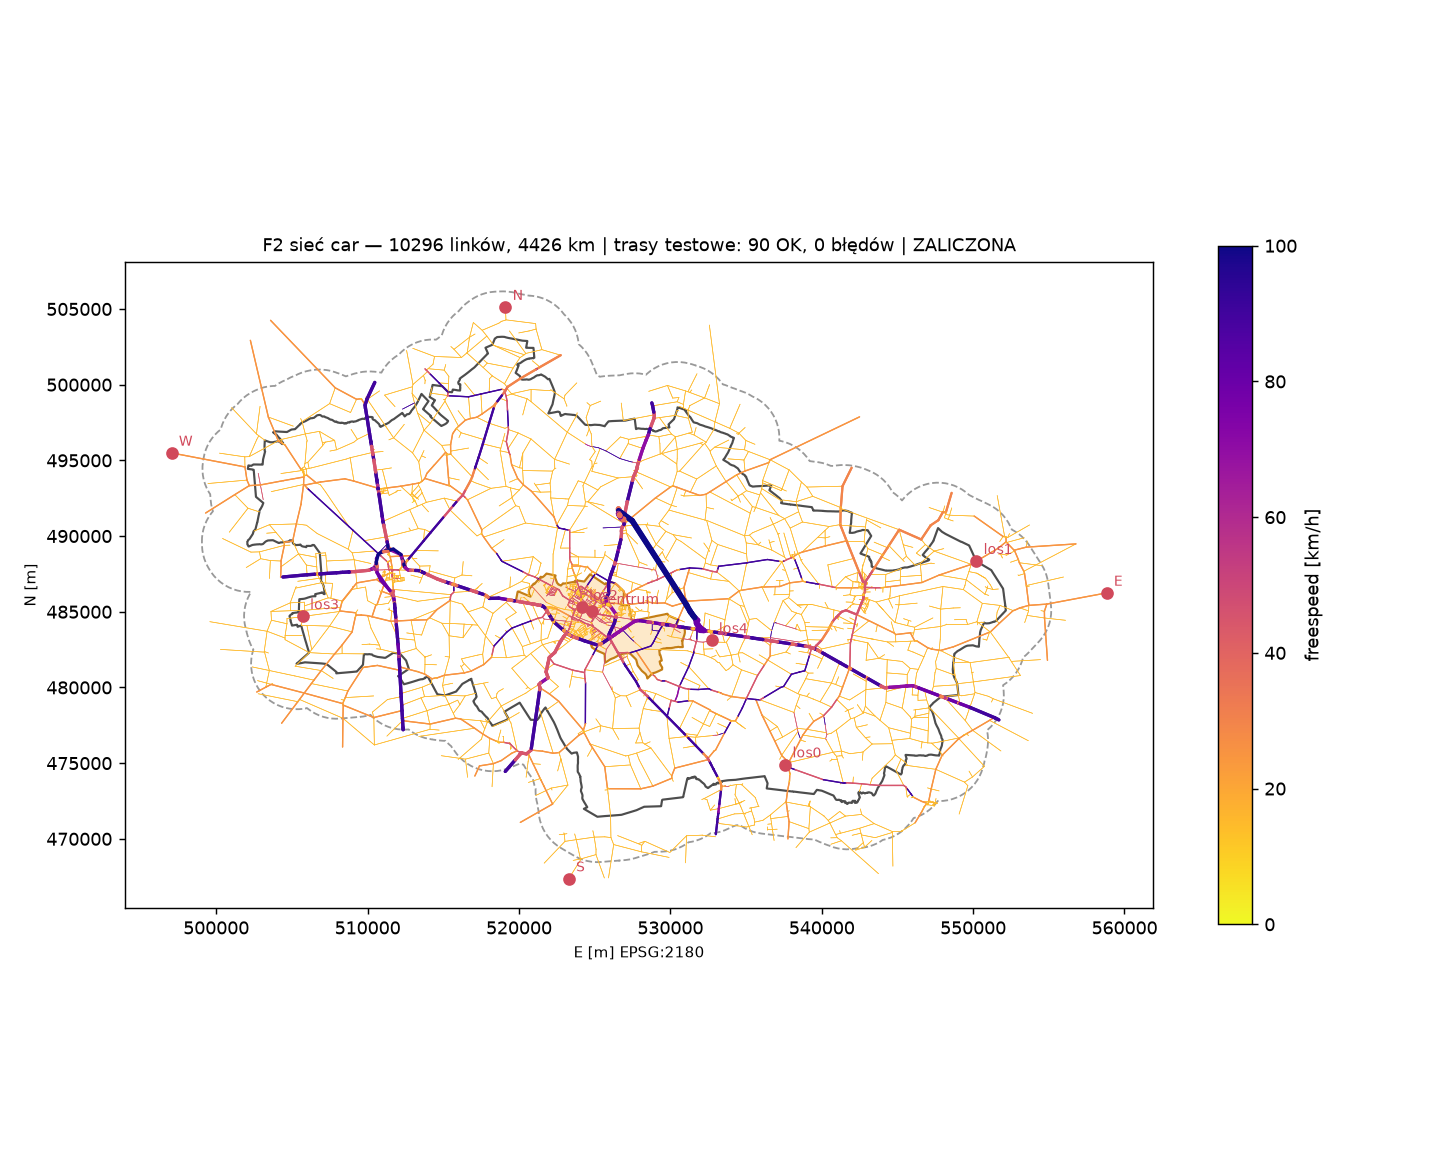
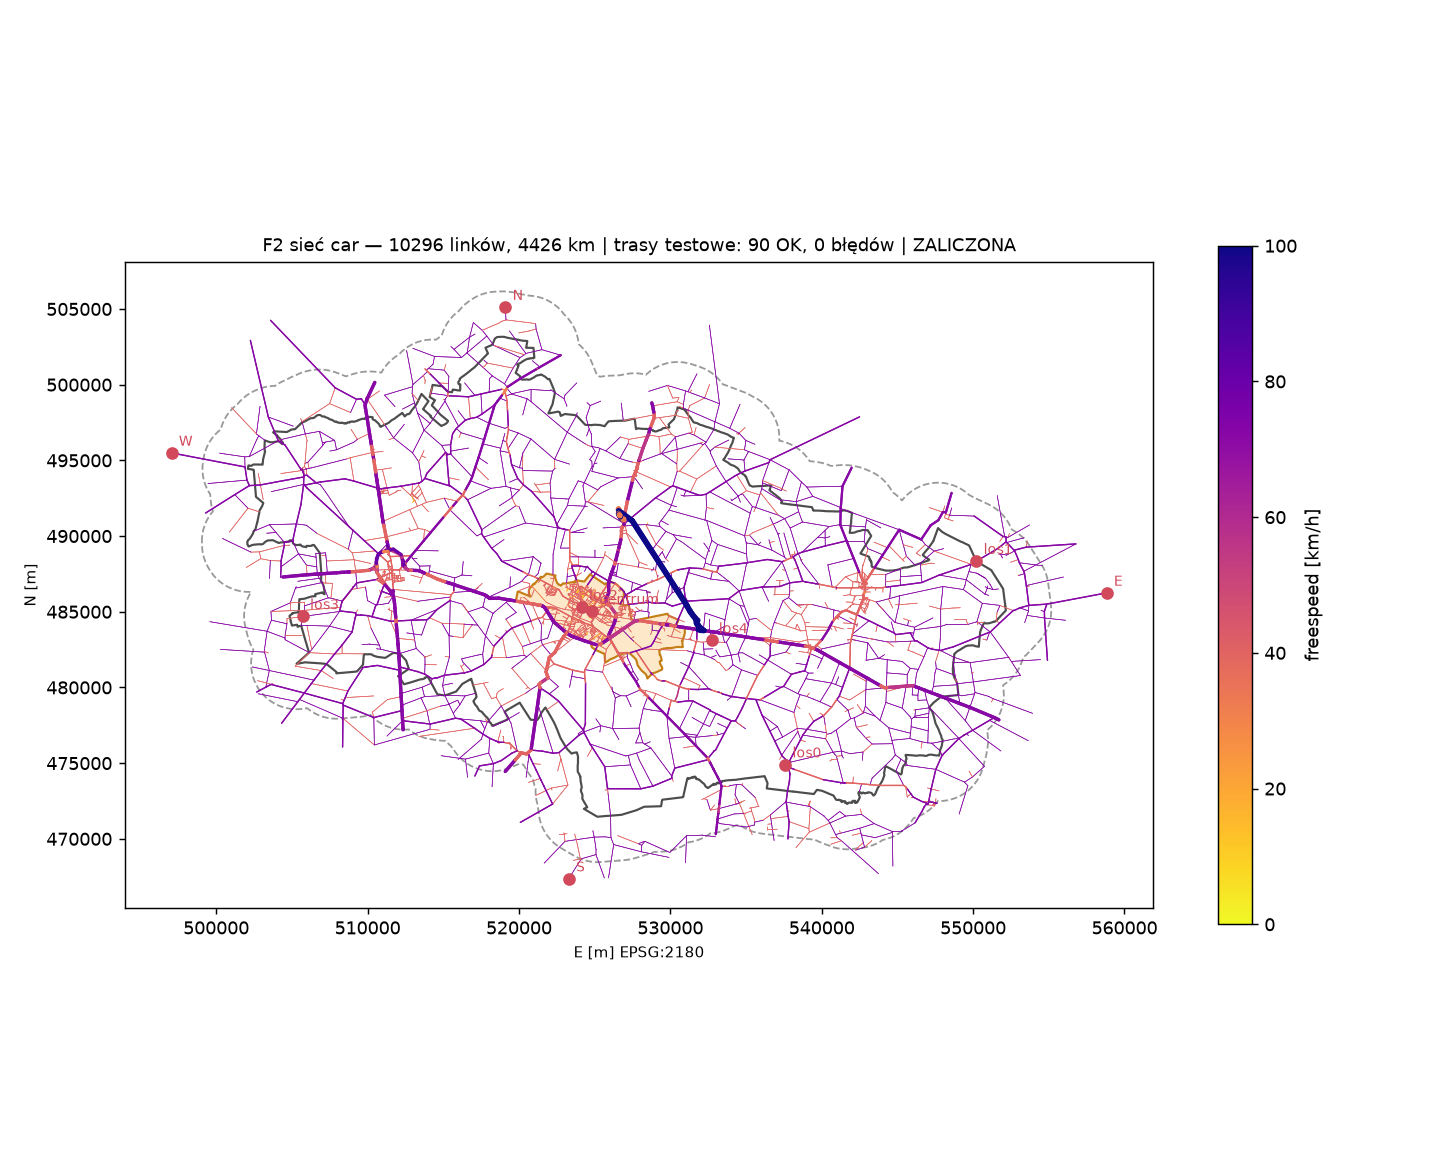
faza2: prędkości wg limitów ustawowych x0,8 (D13), sieć zaliczona

Changed region(s): [[0.1538, 0.2769, 0.7385, 0.7077], [0.5846, 0.7077, 0.6154, 0.7385], [0.4, 0.7077, 0.4308, 0.7385]]

diff --git a/matsim/src/main/java/org/matsim/kutno/CreateKutnoNetwork.java b/matsim/src/main/java/org/matsim/kutno/CreateKutnoNetwork.java
@@ -5,32 +5,48 @@ import org.locationtech.jts.geom.GeometryFactory;
 import org.locationtech.jts.geom.prep.PreparedGeometry;
 import org.locationtech.jts.geom.prep.PreparedGeometryFactory;
 import org.locationtech.jts.io.WKTReader;
+import org.matsim.api.core.v01.Coord;
 import org.matsim.api.core.v01.TransportMode;
+import org.matsim.api.core.v01.network.Link;
 import org.matsim.api.core.v01.network.Network;
 import org.matsim.contrib.osm.networkReader.SupersonicOsmNetworkReader;
 import org.matsim.core.network.NetworkUtils;
 import org.matsim.core.network.algorithms.NetworkCleaner;
 import org.matsim.core.utils.geometry.transformations.TransformationFactory;
 
+import java.io.Reader;
 import java.nio.file.Files;
 import java.nio.file.Path;
+import java.util.Map;
+import java.util.Properties;
 import java.util.Set;
 
 /**
  * F2: OSM PBF -> sieć MATSim (car) w EPSG:2180, przycięta do obszaru z make_area.py.
- * Użycie: java -cp <jar> org.matsim.kutno.CreateKutnoNetwork <osm.pbf> <area_EPSG2180.wkt> <network.xml.gz>
+ * Użycie: java -cp <jar> org.matsim.kutno.CreateKutnoNetwork <osm.pbf> <area.wkt> <towns.wkt> <speeds.properties> <network.xml.gz>
  * Transformacja WGS84 -> EPSG:2180 dzieje się tylko tutaj (parser Supersonic, przed filtrem obszaru).
+ * Prędkości (D13): tag maxspeed > limit ustawowy wg typu drogi i położenia (miasto/poza) ; freespeed = limit x factor.
  */
 public final class CreateKutnoNetwork {
 
+	private static final GeometryFactory GF = new GeometryFactory();
+
 	public static void main(String[] args) throws Exception {
-		PreparedGeometry area = PreparedGeometryFactory.prepare(new WKTReader().read(Files.readString(Path.of(args[1]))));
-		GeometryFactory gf = new GeometryFactory();
+		PreparedGeometry area = readWkt(args[1]);
+		PreparedGeometry towns = readWkt(args[2]);
+		Properties speeds = new Properties();
+		try (Reader r = Files.newBufferedReader(Path.of(args[3]))) {
+			speeds.load(r);
+		}
+		double factor = Double.parseDouble(speeds.getProperty("factor"));
 
 		Network network = new SupersonicOsmNetworkReader.Builder()
 				.setCoordinateTransformation(TransformationFactory.getCoordinateTransformation(TransformationFactory.WGS84, "EPSG:2180"))
-				.setIncludeLinkAtCoordWithHierarchy((coord, level) -> area.contains(gf.createPoint(new Coordinate(coord.getX(), coord.getY()))))
-				.setAfterLinkCreated((link, tags, direction) -> link.setAllowedModes(Set.of(TransportMode.car)))
+				.setIncludeLinkAtCoordWithHierarchy((coord, level) -> contains(area, coord))
+				.setAfterLinkCreated((link, tags, direction) -> {
+					link.setAllowedModes(Set.of(TransportMode.car));
+					setSpeed(link, tags, towns, speeds, factor);
+				})
 				.build()
 				.read(args[0]);
 
@@ -38,6 +54,50 @@ public final class CreateKutnoNetwork {
 		new NetworkCleaner().run(network);
 		System.out.printf("F2 network: before cleaner nodes=%d links=%d, after nodes=%d links=%d%n",
 				nodes, links, network.getNodes().size(), network.getLinks().size());
-		NetworkUtils.writeNetwork(network, args[2]);
+		NetworkUtils.writeNetwork(network, args[4]);
+	}
+
+	private static void setSpeed(Link link, Map<String, String> tags, PreparedGeometry towns, Properties speeds, double factor) {
+		String highway = tags.get("highway").replace("_link", "");
+		Double kmh = parseMaxspeed(tags.get("maxspeed"), speeds);
+		String source = "tag";
+		if (kmh == null) {
+			Coord mid = new Coord((link.getFromNode().getCoord().getX() + link.getToNode().getCoord().getX()) / 2,
+					(link.getFromNode().getCoord().getY() + link.getToNode().getCoord().getY()) / 2);
+			if (speeds.containsKey(highway)) {
+				kmh = Double.parseDouble(speeds.getProperty(highway));
+				source = "default_" + highway;
+			} else if (contains(towns, mid)) {
+				kmh = Double.parseDouble(speeds.getProperty("urban"));
+				source = "default_urban";
+			} else {
+				kmh = Double.parseDouble(speeds.getProperty("rural"));
+				source = "default_rural";
+			}
+		}
+		link.setFreespeed(kmh * factor / 3.6);
+		link.getAttributes().putAttribute(NetworkUtils.ALLOWED_SPEED, kmh / 3.6);
+		link.getAttributes().putAttribute("speed_source", source);
+	}
+
+	/** Liczba km/h, "N mph" albo kod "PL:..." z pliku properties; null gdy brak lub nieczytelne (np. "none", "signals"). */
+	static Double parseMaxspeed(String tag, Properties speeds) {
+		if (tag == null) return null;
+		String t = tag.split(";")[0].trim();
+		if (speeds.containsKey(t)) return Double.parseDouble(speeds.getProperty(t));
+		try {
+			if (t.endsWith("mph")) return Double.parseDouble(t.replace("mph", "").trim()) * 1.609;
+			return Double.parseDouble(t);
+		} catch (NumberFormatException e) {
+			return null;
+		}
+	}
+
+	private static boolean contains(PreparedGeometry g, Coord c) {
+		return g.contains(GF.createPoint(new Coordinate(c.getX(), c.getY())));
+	}
+
+	private static PreparedGeometry readWkt(String path) throws Exception {
+		return PreparedGeometryFactory.prepare(new WKTReader().read(Files.readString(Path.of(path))));
 	}
 }

diff --git a/pipeline/validate_network.py b/pipeline/validate_network.py
@@ -31,7 +31,7 @@ with gzip.open(path, "rb") as f:
             attrs = {a.get("name"): a.text for a in el.iter("attribute")}
             links.append(dict(id=el.get("id"), a=el.get("from"), b=el.get("to"), length=float(el.get("length")),
                               speed=float(el.get("freespeed")), cap=float(el.get("capacity")),
-                              lanes=float(el.get("permlanes")), modes=el.get("modes"), hw=attrs.get("type")))
+                              lanes=float(el.get("permlanes")), modes=el.get("modes"), hw=attrs.get("type"), src=attrs.get("speed_source")))
         el.clear()
 
 area = gpd.read_file("scenarios/kutno/area/network_area.geojson").geometry.iloc[0]
@@ -98,6 +98,8 @@ report = {
 km = collections.Counter()
 for l in links:
     km[round(l["speed"] * 3.6)] += l["length"] / 1000
+report["km_by_speed_source"] = {k: round(v) for k, v in collections.Counter(
+    {src: sum(l["length"] for l in links if l["src"] == src) / 1000 for src in {l["src"] for l in links}}).most_common()}
 report["network_km_by_freespeed_kmh"] = {k: round(v) for k, v in sorted(km.items()) if v >= 1}
 report["ok"] = (not failed and not bad and not non_car and report["nodes_outside_max_m"] <= OUTSIDE_MAX_M
                 and report["scc_largest_nodes_share"] > 0.98 and report["kutno_centre_nearest_node_m"] < 300)
@@ -126,5 +128,5 @@ ax.set_xlabel("E [m] EPSG:2180"); ax.set_ylabel("N [m]"); ax.set_aspect("equal")
 fig.tight_layout(); fig.savefig("reports/f2_network.png", dpi=130)
 print(json.dumps({k: report[k] for k in ("nodes", "links", "scc_largest_nodes_share", "nodes_outside_area",
                   "nodes_outside_max_m", "kutno_centre_nearest_node_m", "links_bad_attrs", "routes_ok", "routes_failed",
-    "km_and_median_freespeed_kmh_by_type", "route_minutes_centrum_to", "ok")}, indent=1, ensure_ascii=False))
+    "km_and_median_freespeed_kmh_by_type", "km_by_speed_source", "route_minutes_centrum_to", "ok")}, indent=1, ensure_ascii=False))
 sys.exit(0 if report["ok"] else 1)

diff --git a/pipeline/make_area.py b/pipeline/make_area.py
@@ -40,5 +40,9 @@ import geopandas as gpd
 for name, geom in [("gmina", g_geom), ("powiat", p_geom), ("network_area", area_geom)]:
     gpd.GeoSeries([geom], crs="EPSG:2180").to_file(out / f"{name}.geojson", driver="GeoJSON")
 (out / "network_area.wkt").write_text(area_geom.simplify(10).wkt)
+# miasta (TERYT rodzaj 1 = gm. miejska, 4 = miasto w gm. miejsko-wiejskiej): obszar zabudowany dla prędkości (D13)
+towns = powiat[powiat["teryt"].str[-1].isin(["1", "4"])]
+(out / "towns.wkt").write_text(towns.union_all().simplify(5).wkt)
+stats["towns_teryt"] = sorted(towns["teryt"].unique())
 Path("reports/f2_area.json").write_text(json.dumps(stats, indent=2, ensure_ascii=False))
 print(json.dumps(stats, indent=2, ensure_ascii=False))

diff --git a/reports/f2_network.md b/reports/f2_network.md
@@ -1,8 +1,8 @@
 # F2 — sieć OSM, powiat kutnowski + bufor 3 km (2026-10-16)
 
-**Status: TOPOLOGIA ZALICZONA · PRĘDKOŚCI DO DECYZJI (faza otwarta)**
+**Status: ZALICZONA** (prędkości wg D13)
 
-Ścieżka: `pipeline/make_area.py` (BREC 2021 → gmina / powiat / obszar sieci w EPSG:2180) → `org.matsim.kutno.CreateKutnoNetwork` (SupersonicOsmNetworkReader 2026.0, WGS84 → EPSG:2180, filtr obszaru, tylko `car`, NetworkCleaner) → `pipeline/validate_network.py`.
+Ścieżka: `pipeline/make_area.py` (BREC 2021 → gmina / powiat / obszar sieci / miasta w EPSG:2180) → `org.matsim.kutno.CreateKutnoNetwork` (SupersonicOsmNetworkReader 2026.0, WGS84 → EPSG:2180, filtr obszaru, tylko `car`, NetworkCleaner) → `pipeline/validate_network.py`.
 Wejście: `data/raw/osm/lodzkie-261015.osm.pbf` (Geofabrik, dane do 2026-10-15T20:21Z, sha256 w `data/manifest.csv`). Konwersja trwa 7 s.
 
 | Test | Wynik |
@@ -17,7 +17,7 @@ Wejście: `data/raw/osm/lodzkie-261015.osm.pbf` (Geofabrik, dane do 2026-10-15T2
 
 Mapa: `reports/f2_network.png` (kolor = freespeed).
 
-## Problem: domyślne prędkości (blokuje F4–F5, nie blokuje F3)
+## Prędkości: problem (pierwsza wersja) → decyzja D13
 
 Linki bez tagu `maxspeed` dostają domyślne prędkości Supersonic (wartości VSP, kalibrowane na miasta niemieckie):
 
@@ -30,7 +30,20 @@ Linki bez tagu `maxspeed` dostają domyślne prędkości Supersonic (wartości V
 | primary | 204 | 60 km/h |
 | motorway | 18 | 140 km/h |
 
-Ok. 3 000 km dróg lokalnych, w większości wiejskich (limit ustawowy 90 km/h poza terenem zabudowanym), jedzie 15–25 km/h. Skutek: centrum → skraj powiatu 52–65 min. Bez korekty czasy dojazdu przyjeżdżających będą kilkukrotnie zawyżone.
+Ok. 3 000 km dróg lokalnych, w większości wiejskich (limit ustawowy 90 km/h poza terenem zabudowanym), jedzie 15–25 km/h. Skutek: centrum → skraj powiatu 52–65 min. Bez korekty czasy dojazdu przyjeżdżających byłyby kilkukrotnie zawyżone.
+
+**Po D13** (tag `maxspeed` > limit ustawowy × 0,8; `config/network_speeds.properties`):
+
+| źródło prędkości | km |
+|---|---|
+| domyślne poza miastem (90 → 72 km/h) | 2 729 |
+| residential (50 → 40) | 996 |
+| tag OSM `maxspeed` | 632 |
+| domyślne w mieście (50 → 40) | 44 |
+| living_street / motorway | 21 / 4 |
+
+Czas z centrum Kutna do skrajnych węzłów (N/S/E/W): **28 / 22 / 35 / 33 min** (wcześniej 63 / 54 / 65 / 52). Topologia bez zmian, 90/90 tras. Regresja smoke po przebudowie: ok.
+Capacity: domyślne Supersonic (np. 600 poj./h/pas dla dróg lokalnych). Bez weryfikacji, istotne dopiero przy analizie kongestii.
 
 ## Ograniczenia
 - PBF obejmuje tylko woj. łódzkie. Bufor 3 km po stronie mazowieckiej nie zawiera dróg spoza województwa, więc wjazdy kończą się na granicy województwa.

diff --git a/DECISIONS.md b/DECISIONS.md
@@ -18,6 +18,7 @@ Format: data · decyzja · uzasadnienie · konsekwencje. Zmiana decyzji = nowy w
 | D10 | 2026-10-16 | **Godziny: smoke test stałe (07:00, 8 h); prototyp = rozkład ze źródła do znalezienia, do tego czasu jawne ZAŁOŻENIE w configu.** | Brak danych lokalnych. | Zadanie researchowe w TASKS. |
 | D11 | 2026-10-16 | **Domy mieszkańców: liczba pracujących per obwód BREC (232) → losowy budynek mieszkalny OSM w obwodzie, ważony powierzchnią.** Obwód bez budynków → losowy punkt + wpis do raportu. | Najdrobniejsza dostępna geografia + realna zabudowa. | Wymaga złączenia obwodów tabela ↔ geometria (232 vs 233, FACT_CHECK #13). |
 | D12 | 2026-10-16 | **Uprawnienia agenta bez pytania:** lokalny venv `uv` w projekcie, pobieranie danych < 500 MB, lokalny commit po zaliczonej fazie (bez push), build `mvnw` i runy MATSim (`-Xmx10g`). | Zgoda użytkownika. | Wszystko inne (push, instalacje globalne, > 500 MB, usuwanie danych) wymaga pytania. |
+| D13 | 2026-10-16 | **Prędkości sieci: tag OSM `maxspeed` > limity ustawowe (PoRD art. 20: miasto 50, poza 90, residential 50, living_street 20, motorway 140, trunk 100) × factor 0,8.** Miasta = gm. miejska / miasto gm. miejsko-wiejskiej z BREC. | Domyślne Supersonic (VSP, Niemcy) dawały 15–25 km/h na ok. 3 000 km dróg wiejskich (F2). | Parametry w `config/network_speeds.properties`. Factor 0,8 i „wsie jak drogi zamiejskie” to ZAŁOŻENIA. Capacity zostaje domyślne Supersonic. |
 
 ## Otwarte
 

diff --git a/PROGRESS.md b/PROGRESS.md
@@ -21,3 +21,4 @@
 - Sieć powiat + 3 km: 4 453 węzły, 10 296 linków, SCC 100%, 90/90 tras testowych. Dowód: `reports/f2_network.md`, `.json`, `.png`.
 - Otwarte: domyślne prędkości Supersonic (15 km/h na ~3 000 km dróg lokalnych), decyzja użytkownika.
 - Wizualizacje wsteczne: `reports/f0_equil.png`, `reports/f1_smoke.png` (`pipeline/plot_run.py`). Regresja smoke po przebudowie jara: ok.
+- F2 zamknięta po D13 (limity ustawowe × 0,8): centrum → skraje powiatu 22–35 min, 90/90 tras, regresja ok.
